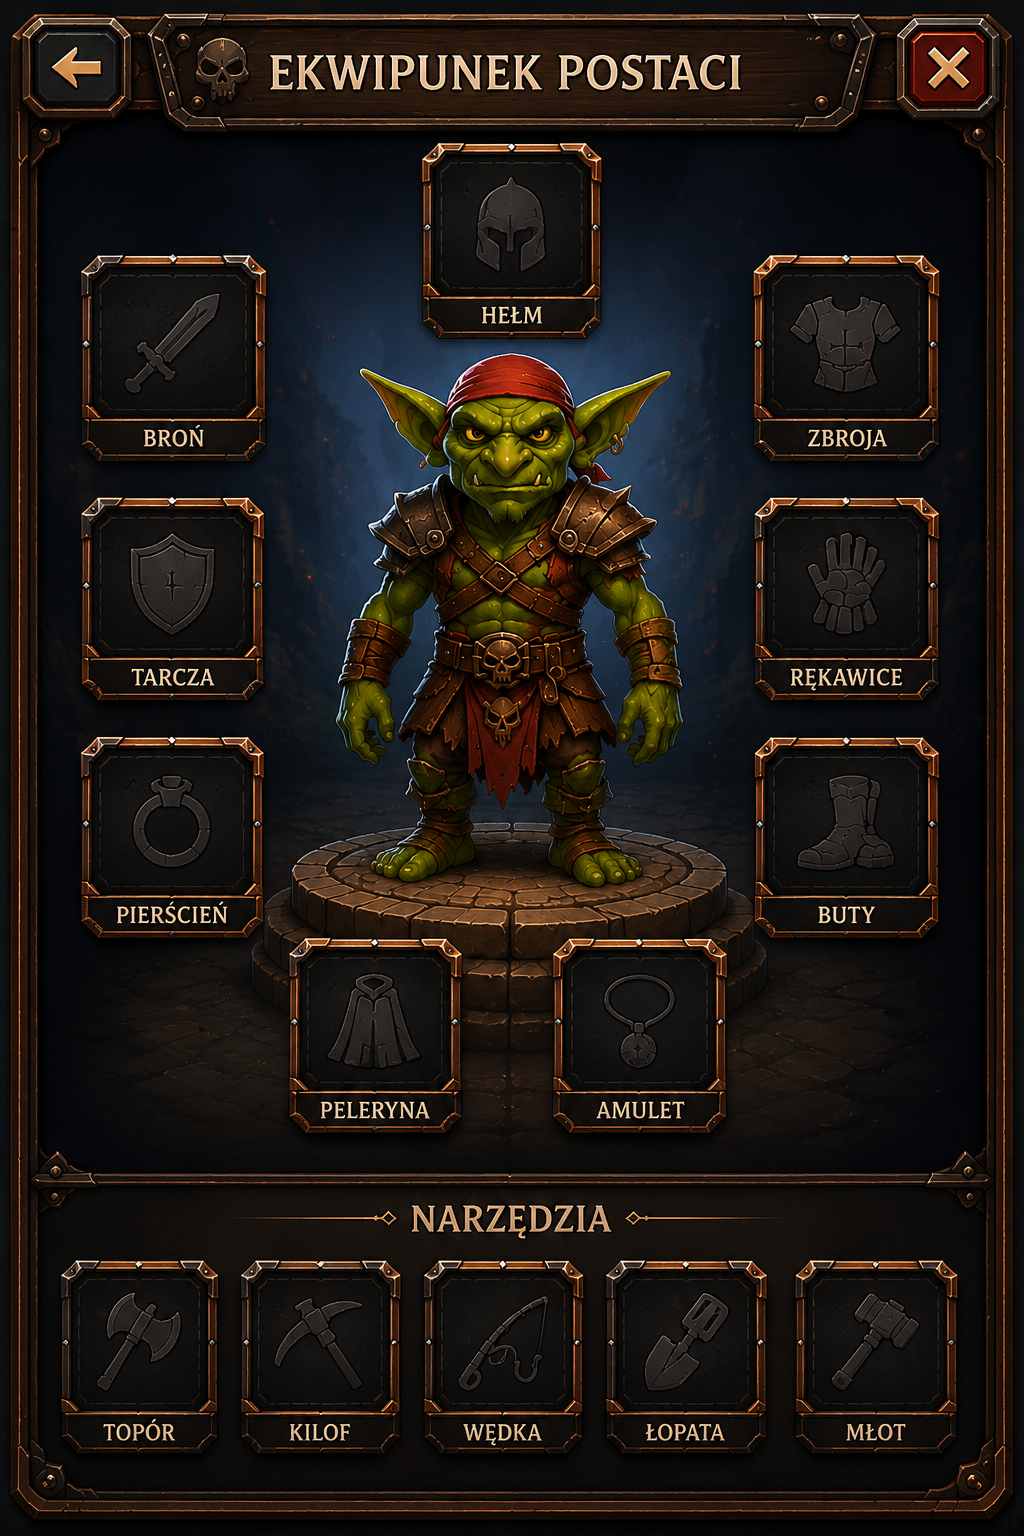
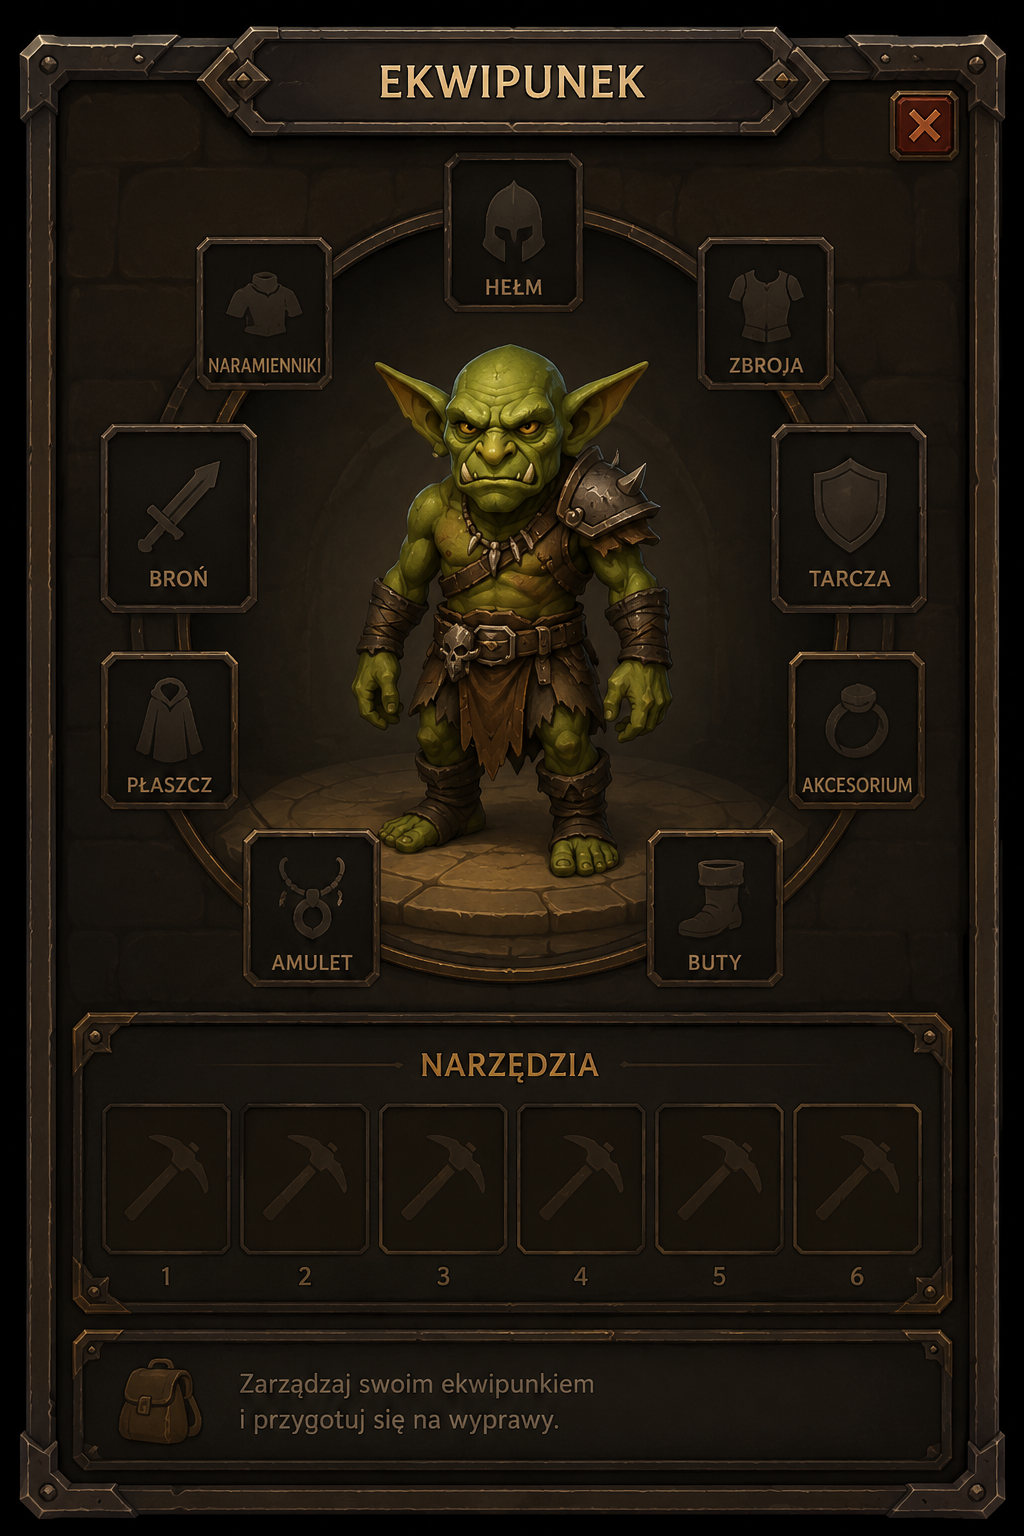
feat: CharacterScreen rebuilt with precise slot overlays and item picker
- Slots positioned to pixel (1024x1536 image, 2:3 ratio)
- Tap slot -> bottom sheet with compatible items
- Tap item -> equip; tap equipped item -> unequip button
- Updated EquipSlots: shoulders/accessories replace gloves/ring
- ToolSlots: added misc (6th slot)

diff --git a/src/components/CharacterScreen.tsx b/src/components/CharacterScreen.tsx
@@ -1,3 +1,4 @@
+import { useState } from 'react'
 import type { EquipSlots, ToolSlots, ItemId } from '../types'
 
 interface Props {
@@ -8,131 +9,242 @@ interface Props {
   onBack: () => void
 }
 
+// Obraz: 1024×1536 (2:3). Pozycje slotów jako % szerokości i wysokości obrazu.
 const EQUIP_SLOTS: { key: keyof EquipSlots; label: string; x: number; y: number }[] = [
-  { key: 'helmet',  label: 'Hełm',      x: 50,   y: 13.5 },
-  { key: 'weapon',  label: 'Broń',      x: 12,   y: 31   },
-  { key: 'armor',   label: 'Zbroja',    x: 88,   y: 31   },
-  { key: 'shield',  label: 'Tarcza',    x: 12,   y: 47.5 },
-  { key: 'gloves',  label: 'Rękawice',  x: 88,   y: 47.5 },
-  { key: 'ring',    label: 'Pierścień', x: 12,   y: 64   },
-  { key: 'boots',   label: 'Buty',      x: 88,   y: 64   },
-  { key: 'cloak',   label: 'Peleryna',  x: 37,   y: 78   },
-  { key: 'amulet',  label: 'Amulet',    x: 63,   y: 78   },
+  { key: 'helmet',      label: 'Hełm',         x: 50,  y: 14.3 },
+  { key: 'shoulders',   label: 'Naramienniki',  x: 14,  y: 27.5 },
+  { key: 'armor',       label: 'Zbroja',        x: 86,  y: 27.5 },
+  { key: 'weapon',      label: 'Broń',          x: 14,  y: 42.5 },
+  { key: 'shield',      label: 'Tarcza',        x: 86,  y: 42.5 },
+  { key: 'cloak',       label: 'Płaszcz',       x: 14,  y: 57.2 },
+  { key: 'accessories', label: 'Akcesoria',     x: 86,  y: 57.2 },
+  { key: 'amulet',      label: 'Amulet',        x: 33,  y: 69.8 },
+  { key: 'boots',       label: 'Buty',          x: 67,  y: 69.8 },
 ]
 
 const TOOL_SLOTS: { key: keyof ToolSlots; label: string; x: number }[] = [
-  { key: 'axe',        label: 'Topór',  x: 11  },
-  { key: 'pickaxe',    label: 'Kilof',  x: 30  },
-  { key: 'fishingRod', label: 'Wędka',  x: 50  },
-  { key: 'shovel',     label: 'Łopata', x: 70  },
-  { key: 'hammer',     label: 'Młot',   x: 89  },
+  { key: 'axe',        label: 'Topór',  x: 9  },
+  { key: 'pickaxe',    label: 'Kilof',  x: 25 },
+  { key: 'fishingRod', label: 'Wędka',  x: 41 },
+  { key: 'shovel',     label: 'Łopata', x: 57 },
+  { key: 'hammer',     label: 'Młot',   x: 74 },
+  { key: 'misc',       label: 'Inne',   x: 90 },
 ]
 
-export const ITEM_META: Record<ItemId, { label: string; image: string; slot: keyof EquipSlots | keyof ToolSlots }> = {
-  sword_copper: { label: 'Miecz miedziany', image: '/assets/backgrounds/sword.png', slot: 'weapon' },
+// Metadane przedmiotów
+export const ITEM_META: Record<ItemId, {
+  label: string
+  image: string
+  slots: (keyof EquipSlots)[]
+}> = {
+  sword_copper: {
+    label: 'Miecz miedziany',
+    image: '/assets/backgrounds/sword.png',
+    slots: ['weapon'],
+  },
 }
 
-const SLOT_SIZE = 52
+// Rozmiar klikalnego slotu (% szerokości obrazu)
+const SLOT_W = 15
+const TOOL_Y = 84
 
 export default function CharacterScreen({ equip, tools, ownedItems, onUpdate, onBack }: Props) {
-  function handleSlotClick(slotKey: keyof EquipSlots) {
-    const current = equip[slotKey]
-    if (current) {
-      // Zdejmij
-      onUpdate({ ...equip, [slotKey]: null }, tools)
-    }
-  }
+  const [activeSlot, setActiveSlot] = useState<keyof EquipSlots | null>(null)
 
   function handleEquip(itemId: ItemId) {
-    const meta = ITEM_META[itemId]
-    const slot = meta.slot as keyof EquipSlots
-    if (slot in equip) {
-      onUpdate({ ...equip, [slot]: itemId }, tools)
-    }
+    if (!activeSlot) return
+    onUpdate({ ...equip, [activeSlot]: itemId }, tools)
+    setActiveSlot(null)
   }
 
-  // Przedmioty które są w ekwipunku (zajęte sloty)
+  function handleUnequip() {
+    if (!activeSlot) return
+    onUpdate({ ...equip, [activeSlot]: null }, tools)
+    setActiveSlot(null)
+  }
+
   const equippedIds = Object.values(equip).filter(Boolean) as ItemId[]
-  const unequipped = ownedItems.filter(id => !equippedIds.includes(id))
+  const activeItem = activeSlot ? equip[activeSlot] : null
+  const activeLabel = activeSlot ? EQUIP_SLOTS.find(s => s.key === activeSlot)?.label : ''
+
+  // Przedmioty pasujące do aktywnego slotu i niewyekwipowane w innym miejscu
+  const availableForSlot = activeSlot
+    ? ownedItems.filter(id => {
+        const meta = ITEM_META[id]
+        return meta.slots.includes(activeSlot) && (equip[activeSlot] === id || !equippedIds.includes(id))
+      })
+    : []
 
   return (
-    <div className="screen-enter" style={{ position: 'relative', width: '100%', height: '100dvh', overflow: 'hidden' }}>
+    <div className="screen-enter" style={{ position: 'relative', width: '100%', minHeight: '100dvh', background: '#06050300', overflow: 'hidden' }}>
 
-      <img src="/assets/backgrounds/eq.png" alt="" draggable={false}
-        style={{ position: 'absolute', inset: 0, width: '100%', height: '100%', objectFit: 'cover', objectPosition: 'center top', pointerEvents: 'none', userSelect: 'none' }} />
+      {/* Obraz postaci — 2:3, wypełnia szerokość */}
+      <div style={{ position: 'relative', width: '100%', paddingBottom: '150%' /* 1536/1024 */ }}>
+        <img
+          src="/assets/backgrounds/eq.png"
+          alt=""
+          draggable={false}
+          style={{ position: 'absolute', inset: 0, width: '100%', height: '100%', objectFit: 'fill', userSelect: 'none', pointerEvents: 'none' }}
+        />
 
-      <button onClick={onBack} style={{
-        position: 'absolute', top: 14, left: 14, zIndex: 20,
-        background: 'rgba(0,0,0,0.55)', border: '1px solid rgba(255,255,255,0.15)',
-        borderRadius: '10px', color: '#c0a070', fontFamily: 'Cinzel', fontSize: '16px',
-        width: 40, height: 40, display: 'flex', alignItems: 'center', justifyContent: 'center',
-        cursor: 'pointer', touchAction: 'manipulation', backdropFilter: 'blur(4px)',
-      }}>←</button>
+        {/* Przycisk powrotu */}
+        <button onClick={onBack} style={{
+          position: 'absolute', top: '2.5%', left: '4%', zIndex: 20,
+          background: 'rgba(0,0,0,0.55)', border: '1px solid rgba(255,255,255,0.2)',
+          borderRadius: '10px', color: '#c0a070', fontFamily: 'Cinzel', fontSize: '16px',
+          width: 40, height: 40, display: 'flex', alignItems: 'center', justifyContent: 'center',
+          cursor: 'pointer', touchAction: 'manipulation', backdropFilter: 'blur(4px)',
+        }}>←</button>
 
-      {/* Sloty ekwipunku */}
-      {EQUIP_SLOTS.map(slot => {
-        const item = equip[slot.key]
-        return (
-          <div
-            key={slot.key}
-            onClick={() => item && handleSlotClick(slot.key)}
-            style={{
-              position: 'absolute', left: `${slot.x}%`, top: `${slot.y}%`,
-              width: SLOT_SIZE, height: SLOT_SIZE,
-              transform: 'translate(-50%, -50%)',
-              zIndex: 10, display: 'flex', alignItems: 'center', justifyContent: 'center',
-              cursor: item ? 'pointer' : 'default', borderRadius: 8,
-              boxShadow: item ? '0 0 14px rgba(220,160,60,0.6)' : undefined,
-            }}
-          >
-            {item && ITEM_META[item] && (
-              <img src={ITEM_META[item].image} alt={item} draggable={false}
-                style={{ width: '100%', height: '100%', objectFit: 'contain', borderRadius: 6 }} />
-            )}
-          </div>
-        )
-      })}
-
-      {/* Sloty narzędzi */}
-      {TOOL_SLOTS.map(slot => {
-        const item = tools[slot.key]
-        return (
-          <div key={slot.key} style={{
-            position: 'absolute', left: `${slot.x}%`, top: '89.5%',
-            width: SLOT_SIZE, height: SLOT_SIZE,
-            transform: 'translate(-50%, -50%)',
-            zIndex: 10, display: 'flex', alignItems: 'center', justifyContent: 'center',
-            cursor: item ? 'pointer' : 'default', borderRadius: 8,
-            boxShadow: item ? '0 0 14px rgba(220,160,60,0.6)' : undefined,
-          }}>
-            {item && ITEM_META[item as ItemId] && (
-              <img src={ITEM_META[item as ItemId].image} alt={item} draggable={false}
-                style={{ width: '100%', height: '100%', objectFit: 'contain', borderRadius: 6 }} />
-            )}
-          </div>
-        )
-      })}
-
-      {/* Niewyekwipowane przedmioty — panel nad dolną krawędzią */}
-      {unequipped.length > 0 && (
-        <div style={{
-          position: 'absolute', bottom: 12, left: 0, right: 0,
-          display: 'flex', justifyContent: 'center', gap: 10, paddingInline: 16, zIndex: 20,
-        }}>
-          {unequipped.map(id => (
-            <button key={id} onClick={() => handleEquip(id)} style={{
-              background: 'rgba(10,8,4,0.88)', border: '1px solid rgba(200,140,50,0.5)',
-              borderRadius: 12, padding: '6px 12px', display: 'flex', flexDirection: 'column',
-              alignItems: 'center', gap: 4, cursor: 'pointer', touchAction: 'manipulation',
-              backdropFilter: 'blur(8px)',
-              boxShadow: '0 0 16px rgba(180,120,30,0.3)',
-            }}>
-              <img src={ITEM_META[id].image} alt={id} draggable={false} style={{ width: 44, height: 44, objectFit: 'contain' }} />
-              <span style={{ fontFamily: 'Cinzel', fontSize: '9px', color: '#c0a060' }}>{ITEM_META[id].label}</span>
-              <span style={{ fontFamily: 'Cinzel', fontSize: '8px', color: '#6a5030' }}>dotknij aby założyć</span>
+        {/* Sloty ekwipunku */}
+        {EQUIP_SLOTS.map(slot => {
+          const item = equip[slot.key]
+          const isActive = activeSlot === slot.key
+          return (
+            <button
+              key={slot.key}
+              onClick={() => setActiveSlot(isActive ? null : slot.key)}
+              style={{
+                position: 'absolute',
+                left: `${slot.x - SLOT_W / 2}%`,
+                top: `${slot.y - SLOT_W / 2 * (1024 / 1536)}%`,
+                width: `${SLOT_W}%`,
+                paddingBottom: `${SLOT_W * (1024 / 1536)}%`,
+                background: 'transparent',
+                border: `2px solid ${isActive ? 'rgba(255,200,80,0.9)' : item ? 'rgba(200,150,50,0.5)' : 'transparent'}`,
+                borderRadius: '8px',
+                cursor: 'pointer',
+                touchAction: 'manipulation',
+                zIndex: 10,
+                boxShadow: isActive ? '0 0 16px rgba(255,200,60,0.6)' : item ? '0 0 10px rgba(200,140,40,0.3)' : 'none',
+                transition: 'border-color 0.15s, box-shadow 0.15s',
+              }}
+            >
+              {item && ITEM_META[item] && (
+                <img
+                  src={ITEM_META[item].image}
+                  alt=""
+                  draggable={false}
+                  style={{ position: 'absolute', inset: '4px', width: 'calc(100% - 8px)', height: 'calc(100% - 8px)', objectFit: 'contain', borderRadius: 4 }}
+                />
+              )}
             </button>
-          ))}
-        </div>
+          )
+        })}
+
+        {/* Sloty narzędzi */}
+        {TOOL_SLOTS.map(slot => {
+          const item = tools[slot.key]
+          return (
+            <div
+              key={slot.key}
+              style={{
+                position: 'absolute',
+                left: `${slot.x - SLOT_W / 2}%`,
+                top: `${TOOL_Y - SLOT_W / 2 * (1024 / 1536)}%`,
+                width: `${SLOT_W}%`,
+                paddingBottom: `${SLOT_W * (1024 / 1536)}%`,
+                background: 'transparent',
+                border: item ? '2px solid rgba(200,150,50,0.5)' : 'none',
+                borderRadius: '8px',
+                zIndex: 10,
+              }}
+            >
+              {item && ITEM_META[item as ItemId] && (
+                <img
+                  src={ITEM_META[item as ItemId].image}
+                  alt=""
+                  draggable={false}
+                  style={{ position: 'absolute', inset: '4px', width: 'calc(100% - 8px)', height: 'calc(100% - 8px)', objectFit: 'contain', borderRadius: 4 }}
+                />
+              )}
+            </div>
+          )
+        })}
+      </div>
+
+      {/* Bottom sheet — picker przedmiotów */}
+      {activeSlot && (
+        <>
+          {/* Overlay */}
+          <div
+            onClick={() => setActiveSlot(null)}
+            style={{ position: 'fixed', inset: 0, background: 'rgba(0,0,0,0.5)', zIndex: 30 }}
+          />
+
+          {/* Panel */}
+          <div style={{
+            position: 'fixed', bottom: 0, left: '50%', transform: 'translateX(-50%)',
+            width: '100%', maxWidth: '480px',
+            background: 'linear-gradient(180deg, rgba(14,10,5,0.98) 0%, #0e0a05 100%)',
+            border: '1px solid rgba(180,130,50,0.3)',
+            borderBottom: 'none',
+            borderRadius: '20px 20px 0 0',
+            padding: '20px 16px 36px',
+            zIndex: 40,
+          }}>
+            {/* Uchwyt */}
+            <div style={{ width: 40, height: 4, background: 'rgba(200,150,60,0.3)', borderRadius: 2, margin: '0 auto 16px' }} />
+
+            <div style={{ fontFamily: 'Cinzel', fontSize: '14px', color: '#c0a060', marginBottom: 4, textAlign: 'center', letterSpacing: '0.06em' }}>
+              {activeLabel}
+            </div>
+            <div style={{ fontFamily: 'Crimson Text', fontSize: '12px', color: '#6a5030', textAlign: 'center', marginBottom: 16, fontStyle: 'italic' }}>
+              {activeItem ? 'Wybrany przedmiot' : 'Wybierz przedmiot do założenia'}
+            </div>
+
+            {/* Lista przedmiotów */}
+            {availableForSlot.length === 0 && !activeItem && (
+              <p style={{ fontFamily: 'Crimson Text', fontSize: '14px', color: '#4a3820', textAlign: 'center', fontStyle: 'italic' }}>
+                Nie posiadasz żadnego przedmiotu do tego slotu
+              </p>
+            )}
+
+            <div style={{ display: 'flex', flexDirection: 'column', gap: 8 }}>
+              {availableForSlot.map(id => {
+                const meta = ITEM_META[id]
+                const isEquipped = equip[activeSlot!] === id
+                return (
+                  <button
+                    key={id}
+                    onClick={() => handleEquip(id)}
+                    style={{
+                      display: 'flex', alignItems: 'center', gap: 14,
+                      background: isEquipped ? 'rgba(180,130,40,0.2)' : 'rgba(255,255,255,0.04)',
+                      border: `1px solid ${isEquipped ? 'rgba(200,150,50,0.6)' : 'rgba(100,80,40,0.3)'}`,
+                      borderRadius: 12, padding: '10px 14px',
+                      cursor: 'pointer', touchAction: 'manipulation', width: '100%',
+                    }}
+                  >
+                    <img src={meta.image} alt="" draggable={false} style={{ width: 48, height: 48, objectFit: 'contain', borderRadius: 6 }} />
+                    <div style={{ flex: 1, textAlign: 'left' }}>
+                      <div style={{ fontFamily: 'Cinzel', fontSize: '13px', color: '#d0a060', fontWeight: 700 }}>{meta.label}</div>
+                      {isEquipped && <div style={{ fontFamily: 'Crimson Text', fontSize: '11px', color: '#907040', fontStyle: 'italic' }}>Założony</div>}
+                    </div>
+                    {!isEquipped && <span style={{ fontFamily: 'Cinzel', fontSize: '11px', color: '#806030' }}>Załóż →</span>}
+                  </button>
+                )
+              })}
+
+              {/* Zdejmij */}
+              {activeItem && (
+                <button
+                  onClick={handleUnequip}
+                  style={{
+                    display: 'flex', alignItems: 'center', justifyContent: 'center',
+                    gap: 8, marginTop: 4,
+                    background: 'rgba(100,30,20,0.3)', border: '1px solid rgba(160,60,40,0.4)',
+                    borderRadius: 12, padding: '10px 14px',
+                    cursor: 'pointer', touchAction: 'manipulation', width: '100%',
+                    fontFamily: 'Cinzel', fontSize: '12px', color: '#c06050',
+                  }}
+                >
+                  Zdejmij przedmiot
+                </button>
+              )}
+            </div>
+          </div>
+        </>
       )}
     </div>
   )

diff --git a/src/types.ts b/src/types.ts
@@ -34,15 +34,15 @@ export type Screen = 'settlement' | 'forest' | 'mine' | 'forge' | 'inventory' | 
 export type ItemId = 'sword_copper'
 
 export interface EquipSlots {
-  weapon:  ItemId | null
-  helmet:  ItemId | null
-  armor:   ItemId | null
-  shield:  ItemId | null
-  gloves:  ItemId | null
-  ring:    ItemId | null
-  boots:   ItemId | null
-  cloak:   ItemId | null
-  amulet:  ItemId | null
+  helmet:      ItemId | null
+  shoulders:   ItemId | null
+  armor:       ItemId | null
+  weapon:      ItemId | null
+  shield:      ItemId | null
+  cloak:       ItemId | null
+  accessories: ItemId | null
+  amulet:      ItemId | null
+  boots:       ItemId | null
 }
 
 export interface ToolSlots {
@@ -51,4 +51,5 @@ export interface ToolSlots {
   fishingRod: ItemId | null
   shovel:     ItemId | null
   hammer:     ItemId | null
+  misc:       ItemId | null
 }

diff --git a/src/store.ts b/src/store.ts
@@ -12,12 +12,12 @@ const DEFAULT_INVENTORY: Inventory = {
 }
 
 const DEFAULT_EQUIP: EquipSlots = {
-  weapon: null, helmet: null, armor: null, shield: null,
-  gloves: null, ring: null, boots: null, cloak: null, amulet: null,
+  helmet: null, shoulders: null, armor: null, weapon: null,
+  shield: null, cloak: null, accessories: null, amulet: null, boots: null,
 }
 
 const DEFAULT_TOOLS: ToolSlots = {
-  axe: null, pickaxe: null, fishingRod: null, shovel: null, hammer: null,
+  axe: null, pickaxe: null, fishingRod: null, shovel: null, hammer: null, misc: null,
 }
 
 const PROFESSION_KEYS: ProfessionKey[] = ['woodcutter', 'miner', 'blacksmith', 'herbalist', 'fisher', 'warrior']